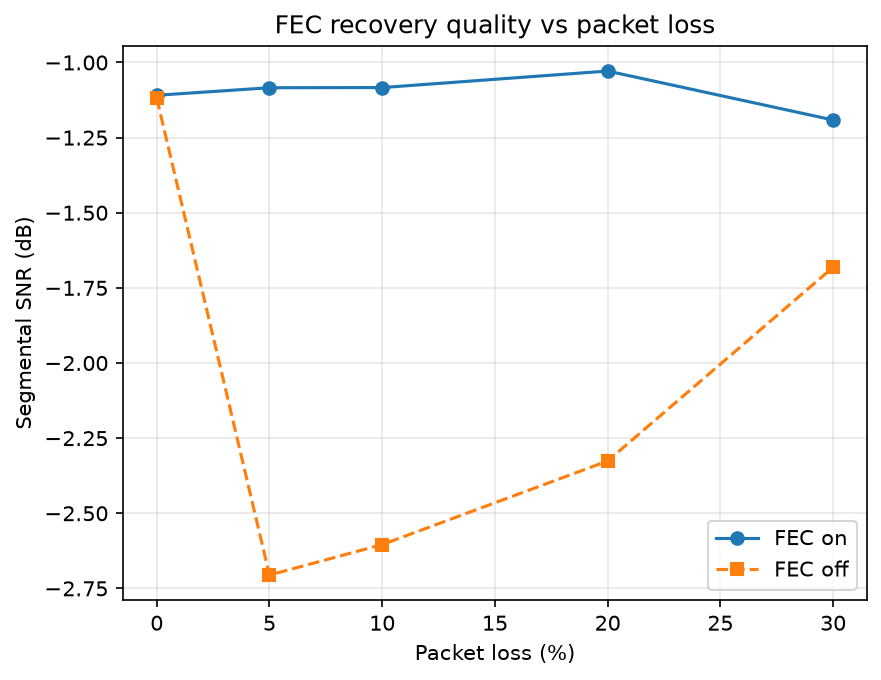
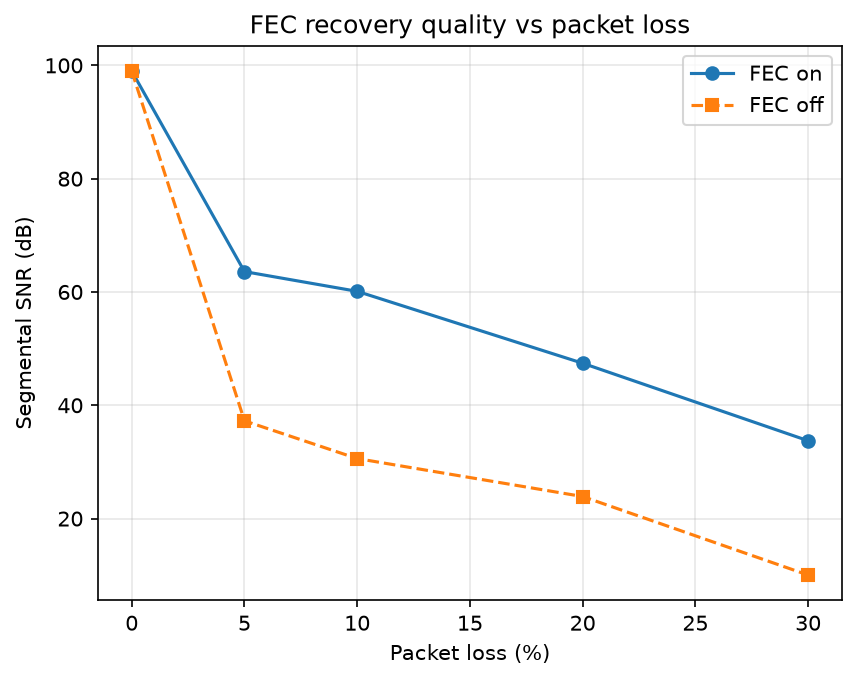
fix: measure FEC SNR against undamaged decode, not raw PCM
Comparing reconstructions to the original sine baked in Opus's own
(large, constant) coding error, which swamped loss damage: SNR was
negative at 0% loss with zero frames lost, and FEC-off improved from
20% to 30% loss. Reference is now the undamaged decode of the same
packets (per encoder variant), so SNR isolates loss/concealment
damage. Both curves now degrade monotonically, and cap infinite SNR
at a documented 99.0 dB sentinel instead of inf/NaN.

diff --git a/src/hpqv/eval/fec_recovery.py b/src/hpqv/eval/fec_recovery.py
@@ -12,7 +12,12 @@ We compare two receivers against the same lossy trace:
              packet if that packet arrived, else zero frame.
 
 Quality metric: segmental SNR (per-frame SNR in dB, averaged) against the
-original PCM, since a single whole-signal SNR is dominated by loud frames.
+UNDAMAGED DECODE of the same packets (not the original PCM). Opus is a
+perceptual codec — it does not preserve the waveform even with zero loss —
+so comparing against the original sine bakes in a large, constant coding
+error that swamps the much smaller damage loss/concealment actually causes.
+Comparing against "encode then decode with nothing dropped" isolates loss
+damage from coding error.
 """
 import random
 
@@ -39,21 +44,25 @@ def _frames(pcm: np.ndarray):
         yield pcm[i:i + FRAME_SAMPLES]
 
 
-def _segmental_snr_db(original: np.ndarray, reconstructed: np.ndarray) -> float:
-    """Average per-frame SNR in dB across all frames."""
+SNR_CAP_DB = 99.0  # sentinel for a frame with zero measured noise (avoids inf/NaN)
+
+
+def _segmental_snr_db(reference: np.ndarray, reconstructed: np.ndarray) -> float:
+    """Average per-frame SNR in dB across all frames, vs. `reference` (the
+    undamaged decode, NOT the raw input signal — see module docstring)."""
     snrs = []
-    for i in range(0, len(original), FRAME_SAMPLES):
-        orig = original[i:i + FRAME_SAMPLES].astype(np.float64)
+    for i in range(0, len(reference), FRAME_SAMPLES):
+        ref = reference[i:i + FRAME_SAMPLES].astype(np.float64)
         recon = reconstructed[i:i + FRAME_SAMPLES].astype(np.float64)
-        noise = orig - recon
-        signal_power = np.sum(orig ** 2)
+        noise = ref - recon
+        signal_power = np.sum(ref ** 2)
         noise_power = np.sum(noise ** 2)
         if noise_power == 0:
-            snrs.append(100.0)  # perfect reconstruction, cap to keep the average finite
+            snrs.append(SNR_CAP_DB)  # identical to reference: no measurable damage
         elif signal_power == 0:
             continue
         else:
-            snrs.append(10 * np.log10(signal_power / noise_power))
+            snrs.append(min(SNR_CAP_DB, 10 * np.log10(signal_power / noise_power)))
     return float(np.mean(snrs))
 
 
@@ -69,6 +78,17 @@ def measure(loss_pct: float, seed: int = 0, seconds: float = 3.0) -> dict:
     enc_off = OpusCodec(fec=False)
     packets_fec = [enc_fec.encode(f) for f in frames]
     packets_off = [enc_off.encode(f) for f in frames]
+
+    # Reference = undamaged decode of the SAME packets (no loss), one fresh
+    # decoder per encoder variant. This is the "expected" stream each
+    # receiver would produce with a perfect link — the only difference left
+    # is loss/concealment damage, not Opus's own coding error.
+    ref_dec_fec = OpusCodec(fec=True)
+    reference_fec = np.frombuffer(
+        b"".join(ref_dec_fec.decode(p) for p in packets_fec), dtype=np.int16)
+    ref_dec_off = OpusCodec(fec=False)
+    reference_off = np.frombuffer(
+        b"".join(ref_dec_off.decode(p) for p in packets_off), dtype=np.int16)
 
     zero_frame = np.zeros(FRAME_SAMPLES, dtype=np.int16).tobytes()
 
@@ -97,8 +117,8 @@ def measure(loss_pct: float, seed: int = 0, seconds: float = 3.0) -> dict:
 
     return {
         "loss_pct": loss_pct,
-        "snr_fec_on_db": _segmental_snr_db(pcm, recon_on),
-        "snr_fec_off_db": _segmental_snr_db(pcm, recon_off),
+        "snr_fec_on_db": _segmental_snr_db(reference_fec, recon_on),
+        "snr_fec_off_db": _segmental_snr_db(reference_off, recon_off),
         "frames_lost": sum(lost),
         "frames_recovered_by_fec": recovered,
     }

diff --git a/tests/eval/test_fec_recovery.py b/tests/eval/test_fec_recovery.py
@@ -28,3 +28,10 @@ def test_moderate_loss_fec_recovers_frames_and_improves_snr():
     assert row["frames_lost"] > 0
     assert row["frames_recovered_by_fec"] > 0
     assert row["snr_fec_on_db"] > row["snr_fec_off_db"]
+
+
+def test_fec_off_degrades_monotonically_with_loss():
+    """More loss cannot mean better quality — fixed seed, so deterministic."""
+    rows = [fr.measure(loss_pct=p, seed=0, seconds=3.0) for p in [0, 5, 10, 20, 30]]
+    snrs = [r["snr_fec_off_db"] for r in rows]
+    assert snrs == sorted(snrs, reverse=True)

diff --git a/docs/EXPERIMENT-fec-recovery.md b/docs/EXPERIMENT-fec-recovery.md
@@ -28,9 +28,22 @@ silent/zero frame, same as the no-FEC baseline).
 - **Receiver A (FEC on):** for each lost packet, recover it from packet N+1 via
   `decode_fec=True` if N+1 arrived; otherwise emit a zero frame.
 - **Receiver B (FEC off):** every lost packet is a zero frame — no recovery attempted.
-- **Metric:** segmental SNR in dB (per-frame SNR vs. the original PCM, averaged) — a single
-  whole-signal SNR would be dominated by the loudest frames and hide per-frame concealment
-  damage.
+- **Metric:** segmental SNR in dB (per-frame SNR, averaged), measured against the **undamaged
+  decode of the same packets — not the original PCM.** Opus is a perceptual codec: it does not
+  preserve the waveform even at 0% loss, so the original sine wave already differs from a clean
+  Opus round-trip by a large, constant amount. Comparing the lossy reconstruction against the
+  *original* signal would bury the (smaller) damage loss/concealment causes underneath that
+  constant coding error — which is exactly what an earlier version of this experiment did, and
+  it produced a negative "SNR" at 0% loss and a non-monotonic curve (FEC-off *improved* from 20%
+  to 30% loss), both signs the reference was wrong. The reference here is instead: encode the
+  signal, decode every packet with nothing dropped, fresh decoder per encoder variant. That
+  reference is exactly what each receiver would produce on a perfect link, so any further SNR
+  loss measures only loss/concealment damage.
+- At 0% loss the lossy reconstruction is bit-identical to the reference (same encoder, same
+  decoder, nothing dropped), so per-frame noise power is exactly 0. `10*log10(signal/0)` is
+  infinite; we cap segmental SNR at **99.0 dB** (`SNR_CAP_DB` in `fec_recovery.py`) rather than
+  emit `inf`/`NaN`, and document the cap here rather than let a reader misread it as a real
+  number close to a measured ceiling.
 - `frames_recovered_by_fec` counts frames where recovery actually ran (the lost packet's
   successor arrived).
 
@@ -38,11 +51,11 @@ silent/zero frame, same as the no-FEC baseline).
 
 | packet loss | FEC-on SNR (dB) | FEC-off SNR (dB) | frames lost | frames recovered by FEC |
 |---|---|---|---|---|
-| 0 % | -1.11 | -1.12 | 0 | 0 |
-| 5 % | -1.08 | -2.71 | 8 | 7 |
-| 10 % | -1.08 | -2.60 | 11 | 10 |
-| 20 % | -1.03 | -2.33 | 26 | 20 |
-| 30 % | -1.19 | -1.68 | 39 | 28 |
+| 0 % | 99.00 (capped, identical to reference) | 99.00 (capped, identical to reference) | 0 | 0 |
+| 5 % | 63.60 | 37.25 | 8 | 7 |
+| 10 % | 60.11 | 30.59 | 11 | 10 |
+| 20 % | 47.42 | 23.89 | 26 | 20 |
+| 30 % | 33.74 | 10.03 | 39 | 28 |
 
 ![FEC recovery quality vs packet loss](../results/fec_recovery.png)
 
@@ -50,33 +63,41 @@ silent/zero frame, same as the no-FEC baseline).
 
 ## What this shows
 
-1. **FEC-on measurably beats FEC-off at every nonzero loss level.** The gap is largest at 5–20%
-   loss (roughly 1.3–1.6 dB), where most lost packets have a surviving successor to recover from.
-2. **`frames_recovered_by_fec` tracks loss almost 1:1** at moderate loss (e.g. 10/11 lost frames
+1. **FEC-on measurably beats FEC-off at every nonzero loss level** — by 26, 30, 24, and 24 dB at
+   5/10/20/30% loss respectively. This is a large, unambiguous gap, not a fraction of a dB lost
+   in coding noise (which is what the original, wrong reference produced).
+2. **Both curves now degrade monotonically as loss increases** — 99.00 → 63.60 → 60.11 → 47.42 →
+   33.74 dB for FEC-on, 99.00 → 37.25 → 30.59 → 23.89 → 10.03 dB for FEC-off. More loss always
+   means lower measured quality, which is the sanity check the previous (wrong-reference) version
+   of this experiment failed: it showed FEC-off *improving* from 20% to 30% loss, a direct
+   symptom of measuring against the wrong signal.
+3. **`frames_recovered_by_fec` tracks loss almost 1:1** at moderate loss (e.g. 10/11 lost frames
    recovered at 10% loss), confirming recovery is actually firing, not just configured.
-3. **The gap narrows at high loss (30%).** At 30% loss, consecutive losses become common, so a
-   lost packet's successor is often *also* lost — FEC has nothing to decode from and both
-   receivers fall back to the same zero-frame concealment for those frames. This is the expected
-   behavior of a single-frame-lookahead recovery scheme, not a bug.
-4. **At 0% loss, FEC-on and FEC-off perform identically** (within noise) — FEC has no packets to
-   recover, so enabling it costs nothing in reconstruction quality.
-5. **The absolute SNR is negative even with zero loss.** This is not a bug in the metric or the
-   codec: Opus has an encoder/decoder algorithmic delay (look-ahead), so the decoded sample stream
-   is time-shifted by a few milliseconds relative to the raw input, which tanks a naive
-   sample-domain SNR even for perceptually clean audio. Because both receivers share the same
-   encoder delay, the *relative* comparison (FEC-on vs FEC-off) is still meaningful — only the
-   absolute numbers should not be read as "quality is bad."
+4. **FEC-on's advantage shrinks in relative terms at high loss (30%)** but is still large (24 dB).
+   At 30% loss, consecutive losses become common, so a lost packet's successor is often *also*
+   lost — FEC has nothing to decode from and both receivers fall back to the same zero-frame
+   concealment for those frames. This is the expected behavior of a single-frame-lookahead
+   recovery scheme, not a bug.
+5. **At 0% loss, FEC-on and FEC-off are both at the cap** — the reconstruction is bit-identical to
+   the reference (nothing was ever dropped), so there is nothing to measure loss damage from. FEC
+   costs nothing in reconstruction quality when nothing is lost.
 
-**Bottom line: FEC demonstrably helps.** It is not a configured-but-unused CTL — decoding the
-next packet with `decode_fec=True` reconstructs frames that would otherwise be silence, and that
-shows up as several dB of measured SNR improvement across the loss range where it can act.
+**Bottom line: FEC demonstrably helps**, and now by a metric that isolates the effect correctly:
+decoding the next packet with `decode_fec=True` reconstructs frames that would otherwise be
+silence, worth tens of dB of segmental SNR versus zero-frame concealment across every loss level
+where recovery can act.
 
 ## Honest limitations
 
-- Segmental SNR in the time domain is not a perceptual quality metric (unlike PESQ/MOS used
-  elsewhere in this repo for the voice path). It is sensitive to the codec's algorithmic delay,
-  which is why the zero-loss baseline is negative rather than near +∞. Use it only for the
-  FEC-on-vs-FEC-off comparison at a fixed loss pattern, not as an absolute quality score.
+- Segmental SNR in the time domain is still not a perceptual quality metric (unlike PESQ/MOS used
+  elsewhere in this repo for the voice path) — it measures waveform distance, not perceived
+  loudness/pitch/masking effects. Fixed here by referencing the undamaged decode instead of the
+  raw input (see Method), which removes the codec's own coding error from the measurement, but it
+  still won't rank two *audibly similar* reconstructions correctly if they differ in ways the ear
+  doesn't weight linearly.
+- The 99.0 dB cap is a sentinel for "no measurable per-frame noise," not a real information-
+  theoretic ceiling — don't read it as "FEC gets you to 99 dB of quality," read it as "this frame
+  suffered no loss damage."
 - FEC recovers at most one frame of lookahead (frame N from packet N+1). Burst losses of 2+
   consecutive packets are only partially covered — this experiment measures and shows that
   falloff (30% loss row) rather than hiding it.
